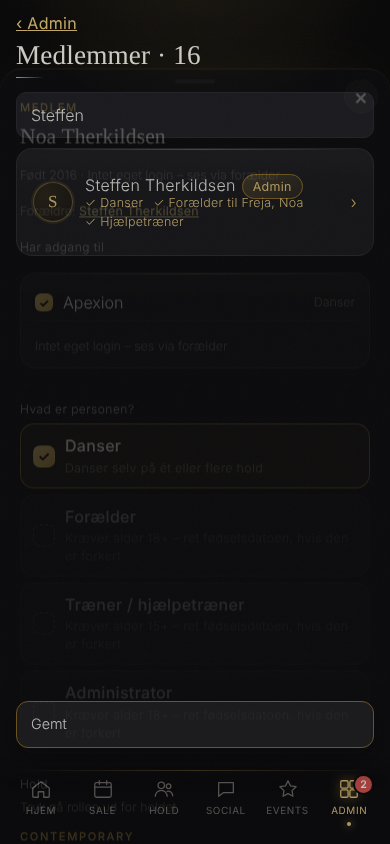
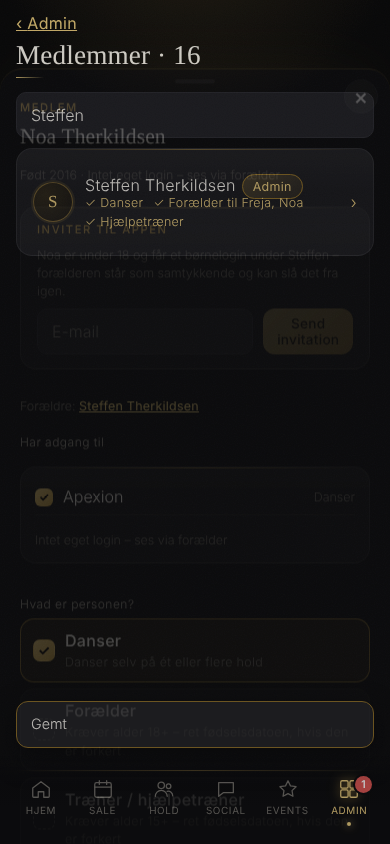
Admin: invite an existing member from the member card (e-mail + welcome mail; under-18 → supervised login under parent) (0048)
Claude-Session: https://claude.ai/code/session_01GGpukzb1UrCDBdg1Js3mqC

diff --git a/src/domain/llds/admin/MemberSheet.tsx b/src/domain/llds/admin/MemberSheet.tsx
@@ -108,7 +108,7 @@ export function MemberSheet({ member: p, all, teams, onClose, onChanged, onOpen,
   return (
     <Sheet onClose={onClose} eyebrow={t("admin.member")} title={`${p.first_name} ${p.last_name}`}>
       <div className="tiny">{[year ? t("admin.born", { year }) : null, p.phone, login].filter(Boolean).join(" · ")}</div>
-      {!p.user_id && p.email && !p.supervised_by && <button type="button" className="chip small" style={{ marginTop: 6 }} disabled={busy} data-testid="resend-invite" onClick={async () => { setBusy(true); try { await api.resendInvite(p.id); const st = await api.lastMailStatus(p.id).catch(() => null); toast(st === "sent" || st === "queued" ? t("admin.inviteResent") : t("admin.inviteResentNoMail")); } catch (x) { toast(t("common.error") + ": " + String((x as Error).message ?? x)); } finally { setBusy(false); } }}>{t("admin.resendInvite")}</button>}
+      {!p.user_id && <InviteBlock person={p} busy={busy} setBusy={setBusy} toast={toast} onChanged={onChanged} />}
       {p.parents.length > 0 && <div className="tiny" style={{ marginTop: 4 }}>{t("admin.parents")}: {p.parents.map((g) => <button key={g.id} className="linklike" onClick={() => { const m = byId(g.id); if (m) onOpen(m); }}>{g.first_name} {g.last_name}</button>).reduce<ReactNode[]>((acc, el, i) => (i ? [...acc, ", ", el] : [el]), [])}</div>}
 
       {/* 1. Access summary – first, so the consequence of every tick is visible */}
@@ -182,5 +182,35 @@ export function MemberSheet({ member: p, all, teams, onClose, onChanged, onOpen,
       <div className="row"><button className="cta grow" disabled={busy} onClick={() => void save()} data-testid="member-save">{t("common.save")}</button>
         <button className="ghost danger" onClick={async () => { if (!confirmOff) { setConfirmOff(true); setTimeout(() => setConfirmOff(false), 4000); return; } await api.setPersonStatus(p.id, "inactive"); toast(t("admin.deactivated")); onChanged(); onClose(); }}>{confirmOff ? t("admin.deactivateConfirm") : t("admin.deactivate")}</button></div>
     </Sheet>
+  );
+}
+
+/** Member card, person without login: set/confirm the e-mail and send the invitation (or send it again). Under-18s become a supervised login under their parent. */
+function InviteBlock({ person: p, busy, setBusy, toast, onChanged }: { person: Member; busy: boolean; setBusy: (b: boolean) => void; toast: (m: string) => void; onChanged: () => void }) {
+  const { t } = useTranslation();
+  const [email, setEmail] = useState(p.email ?? "");
+  const [open, setOpen] = useState(!p.email);
+  const age = p.birth_date ? Math.floor((Date.now() - new Date(p.birth_date).getTime()) / 31557600000) : p.birth_year ? new Date().getFullYear() - p.birth_year : null;
+  const minor = age != null && age < 18;
+  const needsParent = minor && p.parents.length === 0;
+  const send = async () => {
+    setBusy(true);
+    try {
+      if (p.email && email.trim().toLowerCase() === p.email.toLowerCase()) await api.resendInvite(p.id); else await api.inviteExisting(p.id, email.trim());
+      const st = await api.lastMailStatus(p.id).catch(() => null);
+      toast(st === "sent" || st === "queued" ? t("admin.inviteResent") : t("admin.inviteResentNoMail")); onChanged(); setOpen(false);
+    } catch (x) { const m = String((x as Error).message ?? x); toast(m.includes("needs parent") ? t("admin.inviteNeedsParent") : m.includes("exists") ? t("admin.inviteExists") : m.includes("too young") ? t("admin.inviteTooYoung") : t("common.error") + ": " + m); }
+    finally { setBusy(false); }
+  };
+  if (!open) return <button type="button" className="chip small" style={{ marginTop: 6 }} disabled={busy} data-testid="resend-invite" onClick={() => setOpen(true)}>{p.email ? t("admin.resendInvite") : t("admin.inviteNow")}</button>;
+  return (
+    <div className="card stack" style={{ marginTop: 8 }} data-testid="invite-existing">
+      <div className="eyebrow">{p.email ? t("admin.resendInvite") : t("admin.inviteNow")}</div>
+      <p className="tiny muted" style={{ margin: 0 }}>{minor ? t("admin.inviteMinorHint", { name: p.first_name, parent: p.parents[0]?.first_name ?? "–" }) : t("admin.inviteExistingHint")}</p>
+      {needsParent && <p className="tiny warn" style={{ margin: 0 }}>{t("admin.inviteNeedsParent")}</p>}
+      <div className="row"><input type="email" placeholder="E-mail" value={email} onChange={(e) => setEmail(e.target.value)} data-testid="invite-email" />
+        <button type="button" className="small" disabled={busy || needsParent || !email.includes("@")} onClick={() => void send()} data-testid="invite-send">{t("admin.inviteSend")}</button>
+        {p.email && <button type="button" className="ghost small" onClick={() => setOpen(false)}>{t("common.cancel")}</button>}</div>
+    </div>
   );
 }

diff --git a/src/core/api/mock.ts b/src/core/api/mock.ts
@@ -190,6 +190,7 @@ export const mockApi: Api = {
     save(); emit(); return pid;
   },
   async resendInvite() { /* mail only */ },
+  async inviteExisting(personId: string, email: string) { const p = S.persons.find((x) => x.id === personId); if (!p) throw new Error("not found"); if (S.persons.some((x) => x.id !== personId && x.email?.toLowerCase() === email.toLowerCase())) throw new Error("email exists"); const age = p.birth_year ? new Date().getFullYear() - p.birth_year : null; const par = S.guardians.find((g) => g.child_id === personId)?.parent_id; if (age != null && age < 18 && !par) throw new Error("needs parent"); p.email = email.toLowerCase(); if (age != null && age < 18) p.supervised_by = par ?? null; p.status = "approved"; save(); emit(); },
 };
 
 export function mockReset() { try { localStorage.removeItem(KEY); } catch { /* ignore */ } S = load(); emit(); }

diff --git a/src/core/api/types.ts b/src/core/api/types.ts
@@ -119,6 +119,8 @@ export interface Api {
   /** Admin invites a person (optionally a parent with children); everyone is created approved and the adult gets a welcome mail with the app link. */
   invitePerson(input: InviteInput): Promise<string>;
   resendInvite(personId: string): Promise<void>;
+  /** admin: give an existing person (imported dancer, child, trainer) an e-mail and send the invitation; <18 becomes a supervised login under the guardian */
+  inviteExisting(personId: string, email: string): Promise<void>;
   /** status of the latest mail sent about this person: 'sent' | 'queued' | 'no_key' | 'error: …' | null (admin only) */
   lastMailStatus(personId: string): Promise<string | null>;
 }

diff --git a/src/core/api/supabase.ts b/src/core/api/supabase.ts
@@ -121,6 +121,7 @@ export function supabaseApi(url: string, anonKey: string): Api {
       fail(error); return data as string;
     },
     async resendInvite(personId) { const { error } = await sb.rpc("resend_invite", { p_id: personId }); fail(error); },
+    async inviteExisting(personId, email) { const { error } = await sb.rpc("invite_existing", { p_id: personId, p_email: email }); fail(error); },
     async lastMailStatus(personId) { const { data } = await sb.from("mail_log").select("status").contains("ref", { person_id: personId }).order("created_at", { ascending: false }).limit(1).maybeSingle(); return (data?.status as string | undefined) ?? null; },
   };
 }
